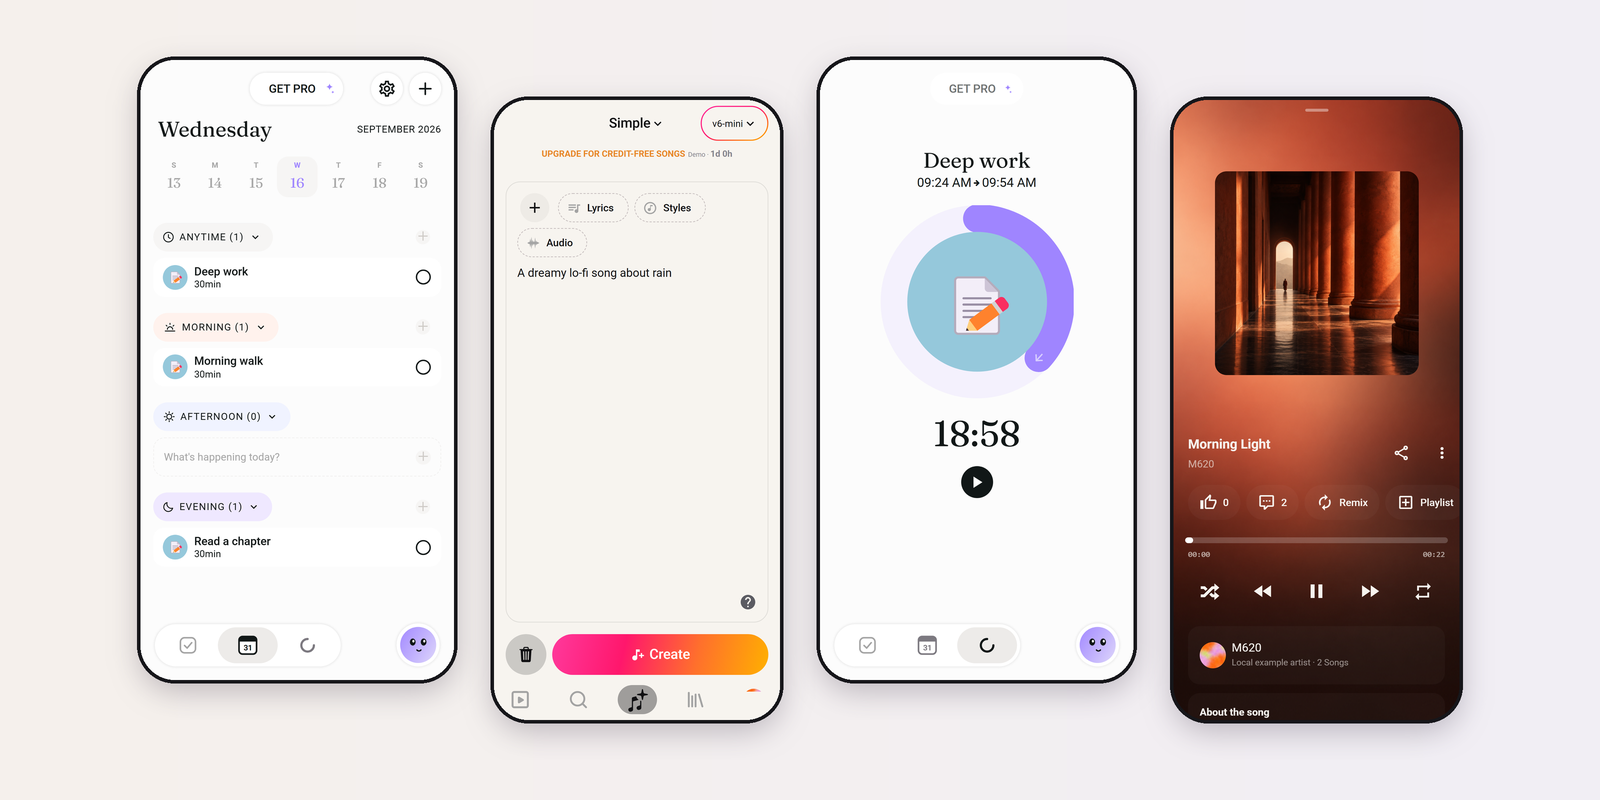
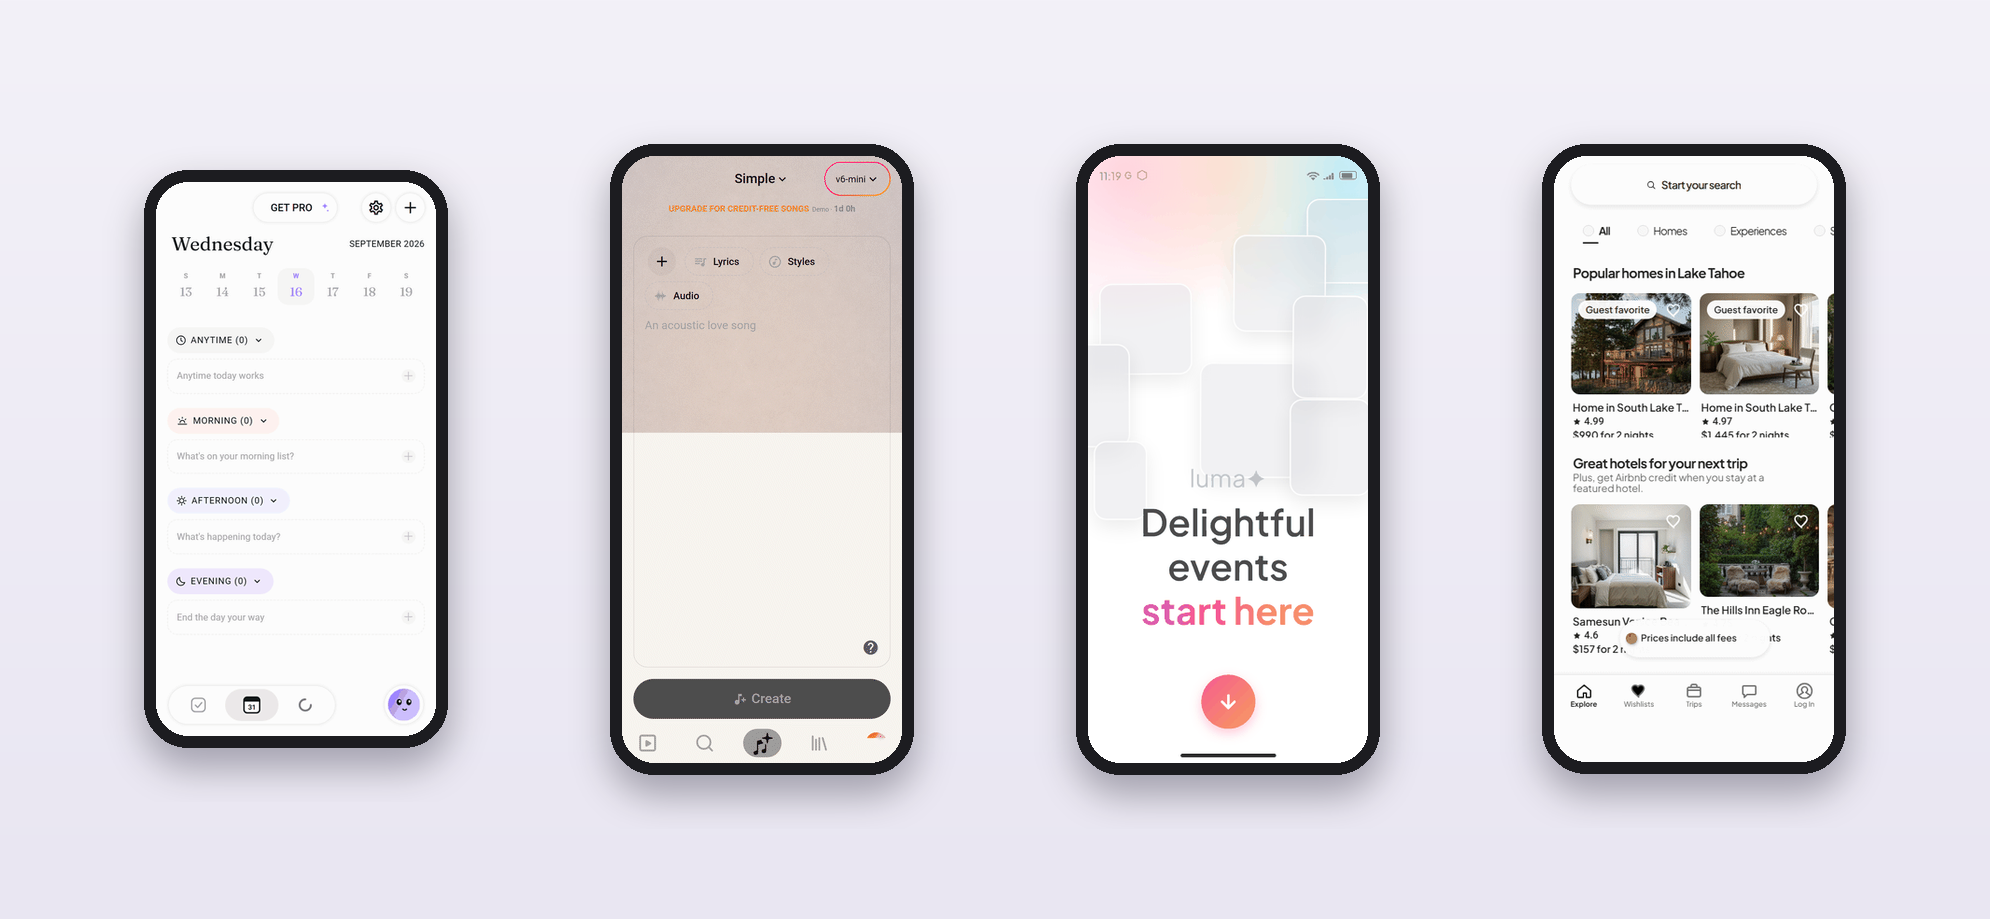
feat: add Airbnb to Awesome App DESIGN.md
Travel & Stays card with a walkthrough GIF, design-md/airbnb specs for agent-buildable design, and a refreshed 4-device hero (Tiimo, Suno, Luma, Airbnb). Apps badge -> 4.

diff --git a/README.md b/README.md
@@ -1,5 +1,5 @@
 <p align="center">
-  <img src="assets/hero.png" alt="Recreated Tiimo and Suno screens running as interactive prototypes">
+  <img src="assets/hero.png" alt="Recreated Airbnb, Tiimo, Suno and Luma screens running as interactive prototypes">
 </p>
 
 <h1 align="center">Awesome App DESIGN.md</h1>
@@ -11,7 +11,7 @@
 <div align="center">
 
 [![Awesome](https://awesome.re/badge.svg)](https://awesome.re)
-![Apps](https://img.shields.io/badge/apps-3-9F85FF?style=classic)
+![Apps](https://img.shields.io/badge/apps-4-9F85FF?style=classic)
 [![Last update](https://img.shields.io/github/last-commit/migrant620/awesome-app-design-md?label=Last%20update&style=classic)](https://github.com/migrant620/awesome-app-design-md/commits/main)
 
 </div>
@@ -85,6 +85,27 @@ Event discovery and hosting. A pale promo wall that drops into a login sheet, a 
 **Flows:** Promo and login · Home feed · Discover · Event detail (hero, host, location, about) · Create form and cover gallery · Empty states
 
 [▶ Live demo](https://luma-ui.edgeone.cool) · [Source](https://github.com/migrant620/luma-ui) · [DESIGN.md](design-md/luma/DESIGN.md)
+
+</td>
+</tr>
+</table>
+
+### Travel & Stays
+
+<table>
+<tr>
+<td width="300" align="center" valign="top">
+  <a href="https://airbnb-ui.edgeone.cool"><img src="assets/airbnb.gif" width="240" alt="Airbnb UI: searching destinations, picking dates, browsing a listing and swiping its photos"></a>
+</td>
+<td valign="top">
+
+#### [Airbnb](design-md/airbnb)
+
+Photo-led white cards on a plain page, a near-black ink with a single rose accent, and a search sheet that reads as one sentence in three clauses (Where, When, Who).
+
+**Flows:** Explore (All · Homes · Experiences · Services) · search sheet · results · listing detail · photo viewer · sign-in sheet
+
+[▶ Live demo](https://airbnb-ui.edgeone.cool) · [Source](https://github.com/migrant620/airbnb-ui) · [DESIGN.md](design-md/airbnb/DESIGN.md) · [Design notes](https://github.com/migrant620/airbnb-ui#design-notes)
 
 </td>
 </tr>

diff --git a/design-md/airbnb/DESIGN.md b/design-md/airbnb/DESIGN.md
@@ -1,0 +1,23 @@
+<p align="center"><a href="https://airbnb-ui.edgeone.cool"><img src="../../assets/airbnb.gif" width="260" alt="Airbnb UI walkthrough"></a></p>
+
+# Airbnb — DESIGN.md
+
+Photo-led white cards on a plain page, a near-black ink with a single rose accent, and a search sheet that reads as one sentence in three clauses. Covers the first batch (Explore, the search sheet, results, listing detail, the photo viewer and the sign-in sheet).
+
+[▶ Live demo](https://airbnb-ui.edgeone.cool) · [Source code](https://github.com/migrant620/airbnb-ui) · [DESIGN.md](DESIGN.md) · [Design notes](https://github.com/migrant620/airbnb-ui#design-notes)
+
+## At a glance
+
+| | |
+|---|---|
+| Surfaces | White `#FFFFFF` page, cards, sheets and floating controls; photography is the only strong colour |
+| Accent | Rose `#FF385C` for the selected tab, heart and guest-favourite badge; `#D70466` Reserve is the one darker control |
+| Structure | Explore feed (All · Homes · Experiences · Services) over a 56 dp search pill; a three-clause search sheet (Where, When, Who) |
+| Type | Plus Jakarta Sans for text, Roboto Medium for numerals (prices, ratings, dates, counts); Cereal substituted and width-matched |
+| Signature | The photograph is the only loud element; everything else steps back so it can |
+
+## Use it
+
+Copy [`DESIGN.md`](DESIGN.md) into your project root and ask your AI coding agent to build a screen in this style — for example: *"Build an Explore screen with a search pill and two rows of listing cards following DESIGN.md."*
+
+Independent recreation for study; not affiliated with or endorsed by Airbnb.

diff --git a/design-md/airbnb/README.md b/design-md/airbnb/README.md
@@ -1,0 +1,23 @@
+<p align="center"><a href="https://airbnb-ui.edgeone.cool"><img src="../../assets/airbnb.gif" width="260" alt="Airbnb UI walkthrough"></a></p>
+
+# Airbnb — DESIGN.md
+
+Photo-led white cards on a plain page, a near-black ink with a single rose accent, and a search sheet that reads as one sentence in three clauses. Covers the first batch (Explore, the search sheet, results, listing detail, the photo viewer and the sign-in sheet).
+
+[▶ Live demo](https://airbnb-ui.edgeone.cool) · [Source code](https://github.com/migrant620/airbnb-ui) · [DESIGN.md](DESIGN.md) · [Design notes](https://github.com/migrant620/airbnb-ui#design-notes)
+
+## At a glance
+
+| | |
+|---|---|
+| Surfaces | White `#FFFFFF` page, cards, sheets and floating controls; photography is the only strong colour |
+| Accent | Rose `#FF385C` for the selected tab, heart and guest-favourite badge; `#D70466` Reserve is the one darker control |
+| Structure | Explore feed (All · Homes · Experiences · Services) over a 56 dp search pill; a three-clause search sheet (Where, When, Who) |
+| Type | Plus Jakarta Sans for text, Roboto Medium for numerals (prices, ratings, dates, counts); Cereal substituted and width-matched |
+| Signature | The photograph is the only loud element; everything else steps back so it can |
+
+## Use it
+
+Copy [`DESIGN.md`](DESIGN.md) into your project root and ask your AI coding agent to build a screen in this style — for example: *"Build an Explore screen with a search pill and two rows of listing cards following DESIGN.md."*
+
+Independent recreation for study; not affiliated with or endorsed by Airbnb.
